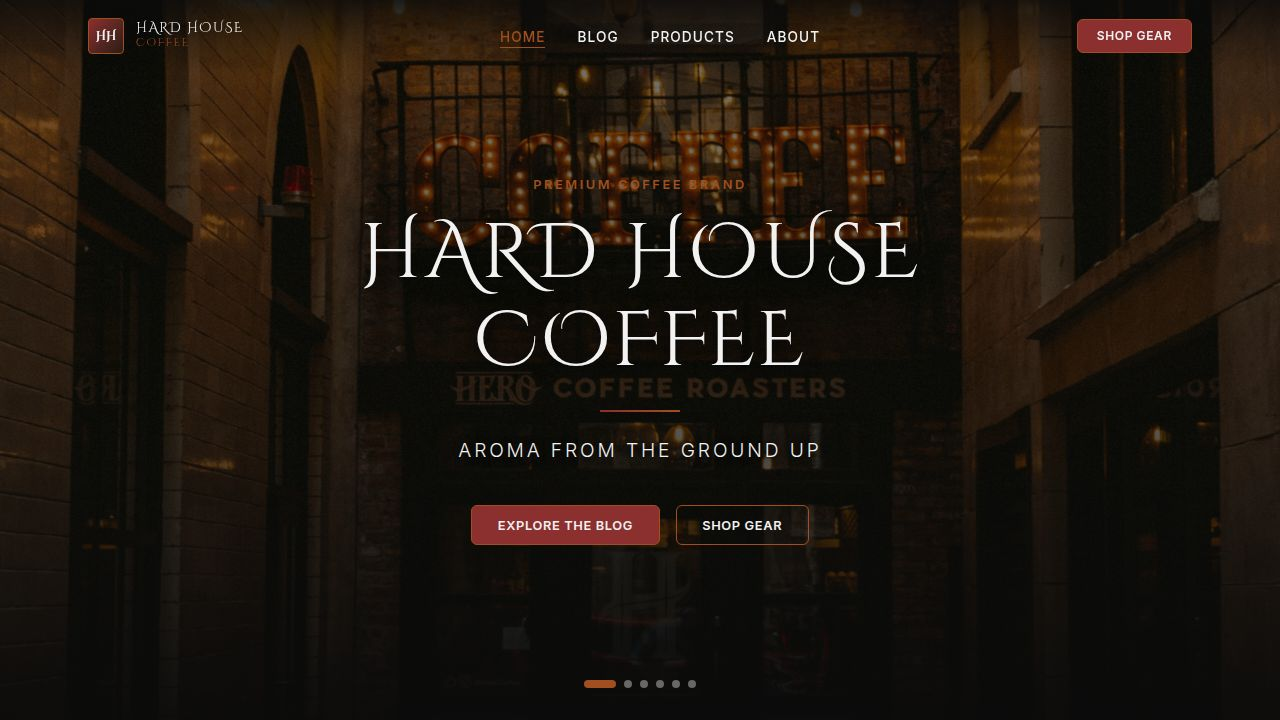
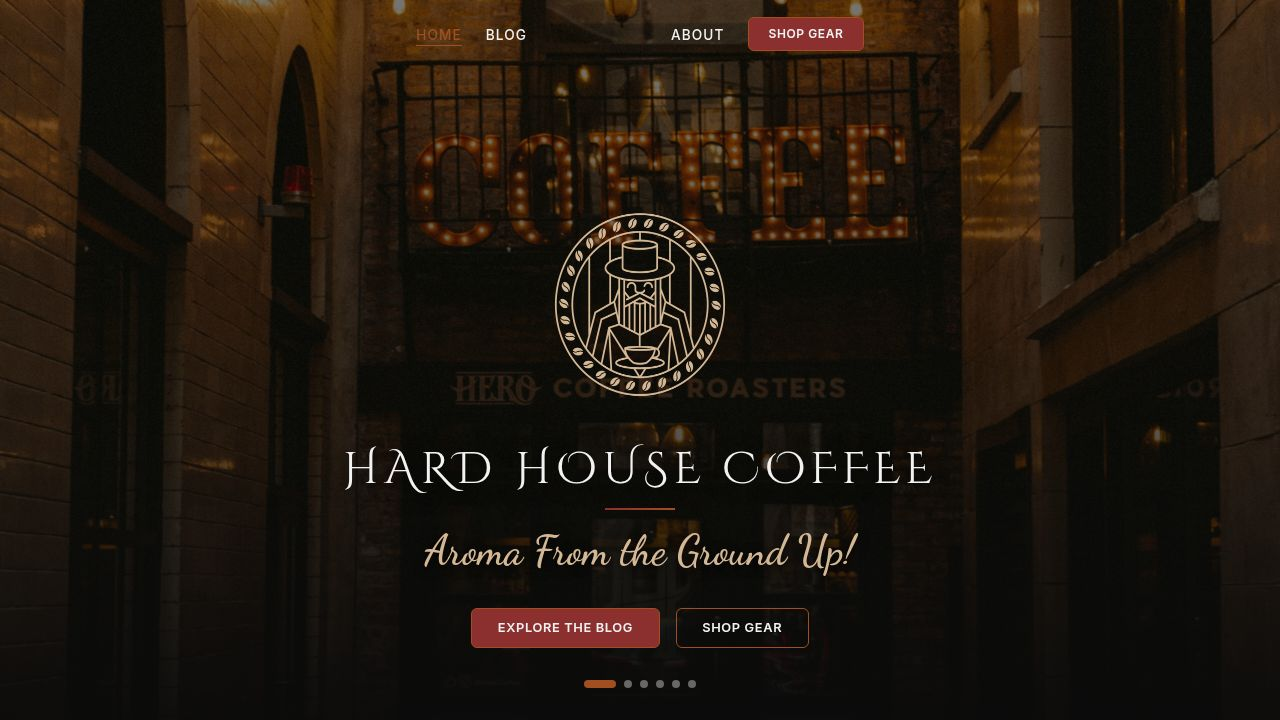
Add four new coffee grinders to the accessories page
Add four new coffee grinder products, including Fellow Ode Gen 2, Baratza Encore ESP, Breville Smart Grinder Pro, and OXO Brew Conical Burr, to the Products.tsx file along with their respective images and specifications.

Replit-Commit-Author: Agent
Replit-Commit-Session-Id: 95aa7046-7ba8-4be9-8c78-6ce84f6680a8
Replit-Commit-Checkpoint-Type: full_checkpoint
Replit-Commit-Event-Id: ac6e9e0c-2dee-4302-9d8e-a16605929ced
Replit-Commit-Screenshot-Url: https://storage.googleapis.com/screenshot-production-us-central1/3813ce74-a858-4e6b-9c05-d6d604a93078/95aa7046-7ba8-4be9-8c78-6ce84f6680a8/3yQz9R5
Replit-Helium-Checkpoint-Created: true

diff --git a/artifacts/hard-house-coffee/src/pages/Products.tsx b/artifacts/hard-house-coffee/src/pages/Products.tsx
@@ -253,6 +253,110 @@ const products = [
     hoverImage3: "/images/products/ninja-dualbrew-hover3.webp",
     pros: ["Dual brew: full carafe + K-Cup pod compatible", "5 brew styles including specialty concentrate", "Built-in fold-away frother", "12-cup carafe + single-serve in one machine"],
   },
+  {
+    id: 17,
+    category: "Grinders",
+    name: "Fellow Ode Brew Grinder Gen 2",
+    tagline: "Precision flat burrs. Barista-grade results at home.",
+    desc: "The Ode Gen 2 is Fellow's acclaimed flat burr grinder, rebuilt with next-generation 64mm steel burrs for stunning clarity and consistency in every cup. Single-dose focused with near-zero retention, it's the grinder coffee enthusiasts actually save up for.",
+    price: "$299",
+    originalPrice: "$345",
+    rating: 4.8,
+    reviews: 1847,
+    badge: "Award Winner",
+    badgeColor: "#8b2f2f",
+    image: "/images/products/fellow-ode-main.jpg",
+    hoverImage: "/images/products/fellow-ode-hover.jpg",
+    mainFit: "contain",
+    mainPosition: "center",
+    pros: ["64mm flat steel burrs for exceptional clarity", "Single-dose hopper with 0.3g retention", "31 grind settings — filter to AeroPress", "Acaia scale compatible anti-static grounds cup"],
+    specs: [
+      { label: "Burr Size", value: "64mm flat steel" },
+      { label: "Grind Settings", value: "31 steps" },
+      { label: "Retention", value: "~0.3g" },
+      { label: "Hopper Capacity", value: "75g single-dose" },
+      { label: "Grind Speed", value: "1.5–2g / sec" },
+      { label: "Weight", value: "5.4 lbs" },
+    ],
+  },
+  {
+    id: 18,
+    category: "Grinders",
+    name: "Baratza Encore ESP",
+    tagline: "Espresso-grade precision. Everyday approachability.",
+    desc: "The Encore ESP is Baratza's most complete entry-level grinder — engineered with a stepped micro-adjustment ring for espresso-level control. With 40 grind settings spanning Turkish to French press, it covers every brew method with professional-grade Mahlkönig-sourced burrs.",
+    price: "$195",
+    originalPrice: "$229",
+    rating: 4.7,
+    reviews: 3214,
+    badge: "Editor's Choice",
+    badgeColor: "#a14f1f",
+    image: "/images/products/baratza-encore-esp-main.jpg",
+    hoverImage: "/images/products/baratza-encore-esp-hover.jpg",
+    mainFit: "contain",
+    mainPosition: "center",
+    pros: ["40mm conical steel burrs (Mahlkönig sourced)", "40 grind settings: Turkish to French press", "Pulse function for manual control", "Compact 9.5oz hopper with 4.4oz grounds bin"],
+    specs: [
+      { label: "Burr Size", value: "40mm conical" },
+      { label: "Grind Settings", value: "40 steps" },
+      { label: "Hopper Capacity", value: "9.5 oz" },
+      { label: "Grounds Container", value: "4.4 oz" },
+      { label: "Motor", value: "110V AC DC" },
+      { label: "Weight", value: "7 lbs" },
+    ],
+  },
+  {
+    id: 19,
+    category: "Grinders",
+    name: "Breville Smart Grinder Pro",
+    tagline: "60 grind settings. One perfect cup.",
+    desc: "The Smart Grinder Pro brings professional consistency to your kitchen countertop. With 60 grind settings dialed via an intuitive LCD display, you can dose by time for single or double shots, cups of drip, or full carafes. The 18oz hopper handles family-sized demands.",
+    price: "$199",
+    originalPrice: "$239",
+    rating: 4.5,
+    reviews: 5641,
+    badge: "Best Value",
+    badgeColor: "#2b6cb0",
+    image: "/images/products/breville-smart-grinder-main.jpg",
+    hoverImage: "/images/products/breville-smart-grinder-hover.jpg",
+    mainFit: "contain",
+    mainPosition: "center",
+    pros: ["60 precise grind settings via LCD dial", "Dose by time for shots, cups, or carafes", "60mm conical stainless steel burrs", "18oz sealed hopper with safety lock"],
+    specs: [
+      { label: "Burr Size", value: "60mm conical" },
+      { label: "Grind Settings", value: "60 steps" },
+      { label: "Hopper Capacity", value: "18 oz" },
+      { label: "Display", value: "LCD precision dial" },
+      { label: "Dose Mode", value: "Time-based (shots/cups)" },
+      { label: "Weight", value: "7.3 lbs" },
+    ],
+  },
+  {
+    id: 20,
+    category: "Grinders",
+    name: "OXO Brew Conical Burr Grinder",
+    tagline: "Simple operation. Specialty-grade results.",
+    desc: "The OXO Brew Conical Burr delivers barista-quality grinding at an accessible price point. Its stainless steel burrs produce an even, uniform grind across 15 settings from espresso-fine to French press coarse. One button. One cup. No fuss.",
+    price: "$109",
+    originalPrice: "$129",
+    rating: 4.4,
+    reviews: 6823,
+    badge: "Crowd Favorite",
+    badgeColor: "#2b6cb0",
+    image: "/images/products/oxo-conical-main.jpg",
+    hoverImage: "/images/products/oxo-conical-hover.jpg",
+    mainFit: "contain",
+    mainPosition: "center",
+    pros: ["40mm stainless steel conical burrs", "15 grind settings for all brew methods", "Anti-static grounds container for easy use", "One-button start with auto shutoff"],
+    specs: [
+      { label: "Burr Size", value: "40mm conical" },
+      { label: "Grind Settings", value: "15 steps" },
+      { label: "Hopper Capacity", value: "0.5 lb beans" },
+      { label: "Grounds Container", value: "Included" },
+      { label: "Auto Shutoff", value: "Yes" },
+      { label: "Weight", value: "4.2 lbs" },
+    ],
+  },
 ];
 
 export default function Products() {